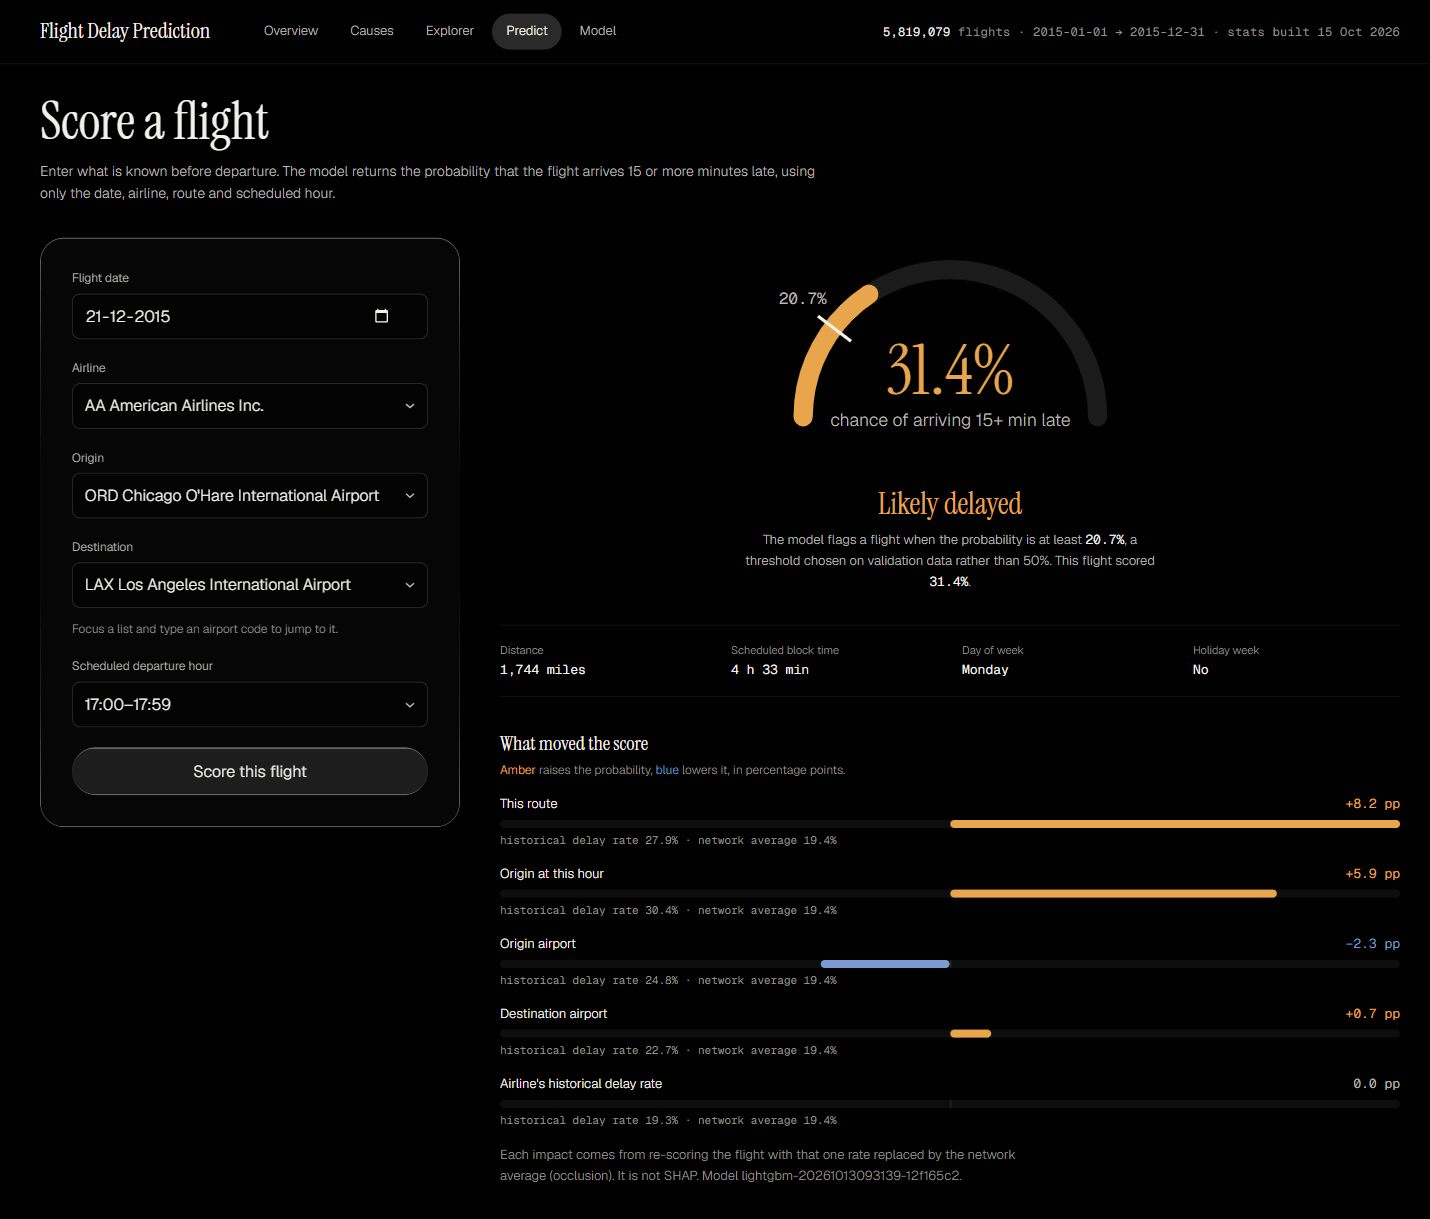
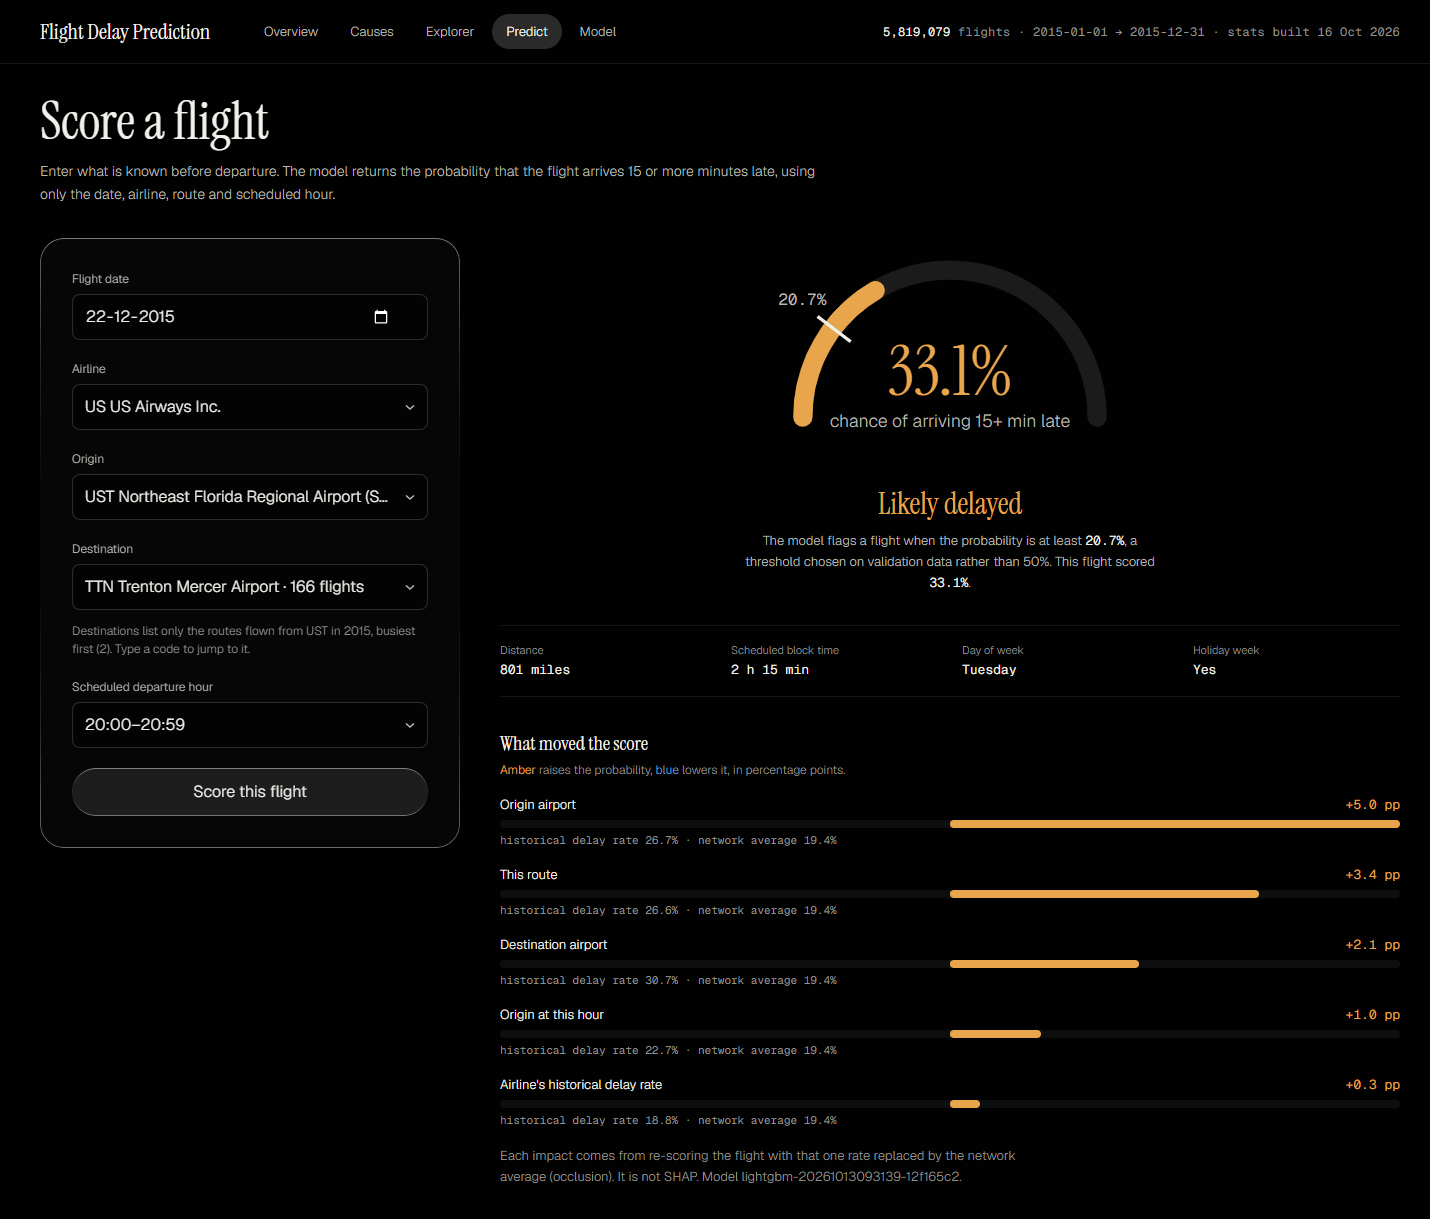
fix(predict): only offer destinations flown from the chosen origin
The Predict form paired any of 322 origins with any of 321 destinations,
but only 4,695 routes were flown in 2015 (about 15 per origin), so most
picks failed with 422 UNKNOWN_ROUTE (e.g. UST-SMX). Add GET /api/routes
?origin= (from stats_route, busiest first) and make the Destination
select list only those routes, falling back to the busiest one when the
origin changes, with loading, error and empty states.

diff --git a/web/src/pages/Predict.tsx b/web/src/pages/Predict.tsx
@@ -9,7 +9,7 @@ import {
 import { useMemo, useState, type FormEvent } from 'react';
 import { z } from 'zod';
 import { ApiError } from '../api/client';
-import { useMeta, usePredict } from '../api/hooks';
+import { useMeta, usePredict, useRoutes } from '../api/hooks';
 import { QueryState, Skeleton } from '../components/QueryState';
 import { FIELD_CLASS, Note, PageHeader, SelectField } from '../components/ui';
 import {
@@ -338,15 +338,30 @@ function PredictForm({
     () => [...meta.airports].sort((a, b) => a.code.localeCompare(b.code)),
     [meta.airports],
   );
+  const airportNames = useMemo(
+    () => new Map(meta.airports.map((airport) => [airport.code, airport.name])),
+    [meta.airports],
+  );
+
+  // Only routes flown in 2015 can be scored (/predict needs their distance and schedule), so the
+  // destination list comes from the origin's routes. A destination the new origin never flew to
+  // falls back to that origin's busiest route.
+  const routes = useRoutes(form.origin);
+  const destinations = routes.data?.destinations ?? [];
+  const dest = destinations.some((route) => route.dest === form.dest)
+    ? form.dest
+    : (destinations[0]?.dest ?? '');
+  const routesReady = routes.isSuccess && dest !== '';
 
   const set = (field: keyof FormState) => (value: string) =>
     setForm((current) => ({ ...current, [field]: value }));
 
   const handleSubmit = (event: FormEvent) => {
     event.preventDefault();
-    const { errors: found, ok } = validate(form);
+    const current = { ...form, dest };
+    const { errors: found, ok } = validate(current);
     setErrors(found);
-    if (ok) onSubmit(toBody(form));
+    if (ok && routesReady) onSubmit(toBody(current));
   };
 
   return (
@@ -401,20 +416,46 @@ function PredictForm({
         </SelectField>
         <SelectField
           label="Destination"
-          value={form.dest}
+          value={dest}
           onChange={(event) => set('dest')(event.target.value)}
           error={errors.dest}
+          disabled={!routesReady}
         >
-          {airports.map((airport) => (
-            <option key={airport.code} value={airport.code}>
-              {airport.code} {airport.name}
+          {routesReady ? (
+            destinations.map((route) => (
+              <option key={route.dest} value={route.dest}>
+                {route.dest} {airportNames.get(route.dest) ?? ''} · {formatInteger(route.flights)}{' '}
+                flights
+              </option>
+            ))
+          ) : (
+            <option value="">
+              {routes.isPending
+                ? 'Loading routes…'
+                : routes.isError
+                  ? 'Routes unavailable'
+                  : `No 2015 departures from ${form.origin}`}
             </option>
-          ))}
+          )}
         </SelectField>
       </div>
-      <p className="-mt-2 text-[12px] text-ink-3">
-        Focus a list and type an airport code to jump to it.
-      </p>
+      {routes.isError ? (
+        <p className="-mt-2 text-[12px] text-cancelled" role="alert">
+          Could not load the routes from {form.origin}: {routes.error.message}{' '}
+          <button
+            type="button"
+            onClick={() => void routes.refetch()}
+            className="text-ink underline underline-offset-2"
+          >
+            Retry
+          </button>
+        </p>
+      ) : (
+        <p className="-mt-2 text-[12px] text-ink-3">
+          Destinations list only the routes flown from {form.origin} in 2015, busiest first (
+          {routesReady ? formatInteger(destinations.length) : '…'}). Type a code to jump to it.
+        </p>
+      )}
 
       <SelectField
         label="Scheduled departure hour"
@@ -431,7 +472,7 @@ function PredictForm({
 
       <button
         type="submit"
-        disabled={pending}
+        disabled={pending || !routesReady}
         className="liquid-glass w-full rounded-full px-6 py-3 text-sm text-ink transition-colors disabled:opacity-60"
       >
         {pending ? 'Scoring…' : 'Score this flight'}

diff --git a/server/tests/analytics/analytics.integration.test.ts b/server/tests/analytics/analytics.integration.test.ts
@@ -10,6 +10,7 @@ import {
   DelayRateResponseSchema,
   FlightsResponseSchema,
   HeatmapResponseSchema,
+  RoutesResponseSchema,
   MetaResponseSchema,
   SummaryResponseSchema,
   TrendResponseSchema,
@@ -408,6 +409,26 @@ describe('analytics API (MongoDB integration)', () => {
     expect(byHour.get(17)?.lateAircraftShare).toBeCloseTo(40 / 60);
     expect(byHour.get(20)?.totalMinutes).toBe(0);
     expect(byHour.get(20)?.lateAircraftShare).toBeNull();
+  });
+
+  it('routes: the destinations flown from an origin, busiest first', async (context) => {
+    if (!client) return context.skip();
+    // ATL -> JFK: DL flights 5, 6, 7 (Feb) and 9 (Oct, cancelled) = 4 flights. JFK -> LAX: AA 1-4.
+    expect(RoutesResponseSchema.parse(await get('/api/routes?origin=ATL'))).toEqual({
+      origin: 'ATL',
+      destinations: [{ dest: 'JFK', flights: 4 }],
+    });
+    expect(RoutesResponseSchema.parse(await get('/api/routes?origin=JFK')).destinations).toEqual([
+      { dest: 'LAX', flights: 4 },
+    ]);
+    // A valid code with no departures is an empty list, not an error.
+    expect(RoutesResponseSchema.parse(await get('/api/routes?origin=LAX')).destinations).toEqual(
+      [],
+    );
+    expect(
+      ((await get('/api/routes?origin=ab', 400)) as { error: { code: string } }).error.code,
+    ).toBe('VALIDATION_ERROR');
+    await get('/api/routes', 400);
   });
 
   it('heatmap: delay rate per (day of week, departure hour) cell', async (context) => {

diff --git a/shared/src/analytics.ts b/shared/src/analytics.ts
@@ -34,6 +34,12 @@ export const CancellationsQuerySchema = z.object({
 });
 export type CancellationsQuery = z.infer<typeof CancellationsQuerySchema>;
 
+/** GET /routes: the destinations flown from one origin (feeds the Predict form). */
+export const RoutesQuerySchema = z.object({
+  origin: z.string().regex(AIRPORT_CODE, 'origin must be a 3-character IATA code'),
+});
+export type RoutesQuery = z.infer<typeof RoutesQuerySchema>;
+
 // ---------- Response schemas ----------
 
 const rate = z.number().nullable();
@@ -218,6 +224,16 @@ export const HeatmapResponseSchema = z.object({
   cells: z.array(HeatmapCellSchema),
 });
 export type HeatmapResponse = z.infer<typeof HeatmapResponseSchema>;
+
+/**
+ * Destinations with at least one 2015 flight from `origin`, busiest first. Only these routes have
+ * the distance and scheduled time /predict needs (any other pair answers 422 UNKNOWN_ROUTE).
+ */
+export const RoutesResponseSchema = z.object({
+  origin: z.string(),
+  destinations: z.array(z.object({ dest: z.string(), flights: z.number() })),
+});
+export type RoutesResponse = z.infer<typeof RoutesResponseSchema>;
 
 export const MetaResponseSchema = z.object({
   flights: z.number(),

diff --git a/server/src/routes/api.ts b/server/src/routes/api.ts
@@ -5,6 +5,7 @@ import {
   CausesQuerySchema,
   DelayRateQuerySchema,
   FlightsQuerySchema,
+  RoutesQuerySchema,
   TrendQuerySchema,
   type DataQuality,
 } from '@flight-delay/shared';
@@ -13,6 +14,7 @@ import { loadDataQuality, loadLabels, type Labels } from '../analytics/common.js
 import { getDelayRate } from '../analytics/delay-rate.js';
 import { getFlights } from '../analytics/flights.js';
 import { getHeatmap } from '../analytics/heatmap.js';
+import { getRoutes } from '../analytics/routes.js';
 import { getMeta } from '../analytics/meta.js';
 import {
   getCancellations,
@@ -99,6 +101,11 @@ export function apiRouter({ getDb, cacheTtlMs }: ApiRouterOptions): Router {
 
   router.get('/analytics/delay-distribution', async (_request, response) => {
     response.json(await cached('delay-distribution', () => getDelayDistribution(getDb())));
+  });
+
+  router.get('/routes', async (request, response) => {
+    const query = parseQuery(RoutesQuerySchema, request.query);
+    response.json(await cached(`routes:${query.origin}`, () => getRoutes(getDb(), query)));
   });
 
   // Raw flight browsing is index-backed and paginated, so it is not cached.

diff --git a/server/tests/analytics/builders.test.ts b/server/tests/analytics/builders.test.ts
@@ -5,6 +5,7 @@ import { delayRatePipeline } from '../../src/analytics/delay-rate.js';
 import { causesPipeline } from '../../src/analytics/causes.js';
 import { trendPipeline, trendSource } from '../../src/analytics/series.js';
 import { heatmapPipeline } from '../../src/analytics/heatmap.js';
+import { routesPipeline } from '../../src/analytics/routes.js';
 import { STATS_BUILDS } from '../../src/stats/builders.js';
 
 const stageNames = (pipeline: object[]): string[] =>
@@ -54,6 +55,14 @@ describe('stats build pipelines', () => {
 });
 
 describe('read pipelines', () => {
+  it('reads one origin routes, busiest first, with a stable tiebreak', () => {
+    expect(routesPipeline({ origin: 'ORD' })).toEqual([
+      { $match: { origin: 'ORD' } },
+      { $sort: { flights: -1, dest: 1 } },
+      { $project: { _id: 0, dest: 1, flights: 1 } },
+    ]);
+  });
+
   it('reads heatmap cells in day-of-week, hour order without _id', () => {
     expect(heatmapPipeline()).toEqual([
       { $sort: { dow: 1, hour: 1 } },

diff --git a/server/src/analytics/routes.ts b/server/src/analytics/routes.ts
@@ -1,0 +1,24 @@
+import type { Db, Document } from 'mongodb';
+import { z } from 'zod';
+import { RoutesResponseSchema, type RoutesQuery, type RoutesResponse } from '@flight-delay/shared';
+
+// ---------- Destinations flown from an origin (Predict form) ----------
+
+/** stats_route holds one document per IATA route; /predict derives its route inputs from it. */
+export const ROUTES_SOURCE = 'stats_route';
+
+export function routesPipeline(query: RoutesQuery): Document[] {
+  return [
+    { $match: { origin: query.origin } },
+    { $sort: { flights: -1, dest: 1 } },
+    { $project: { _id: 0, dest: 1, flights: 1 } },
+  ];
+}
+
+export async function getRoutes(db: Db, query: RoutesQuery): Promise<RoutesResponse> {
+  const docs = await db.collection(ROUTES_SOURCE).aggregate(routesPipeline(query)).toArray();
+  return RoutesResponseSchema.parse({
+    origin: query.origin,
+    destinations: z.array(z.unknown()).parse(docs),
+  });
+}

diff --git a/server/src/db/api-timing.ts b/server/src/db/api-timing.ts
@@ -22,6 +22,7 @@ import {
   TrendQuerySchema,
 } from '@flight-delay/shared';
 import { HEATMAP_SOURCE, heatmapPipeline } from '../analytics/heatmap.js';
+import { ROUTES_SOURCE, routesPipeline } from '../analytics/routes.js';
 
 export const API_LIMIT_MS = 1_000;
 
@@ -132,6 +133,11 @@ function checks(page2Cursor: string | null): ApiCheck[] {
       explain: aggregate(CANCELLATIONS_SOURCE, cancellationsPipeline({ by: 'airline' })),
     },
     { path: '/api/analytics/delay-distribution', source: 'stats_delay_buckets' },
+    {
+      path: '/api/routes?origin=ORD',
+      source: ROUTES_SOURCE,
+      explain: aggregate(ROUTES_SOURCE, routesPipeline({ origin: 'ORD' })),
+    },
     {
       path: '/api/analytics/heatmap',
       source: HEATMAP_SOURCE,

diff --git a/web/src/api/hooks.ts b/web/src/api/hooks.ts
@@ -10,6 +10,7 @@ import {
   MetaResponseSchema,
   ModelMetricsResponseSchema,
   PredictResponseSchema,
+  RoutesResponseSchema,
   SummaryResponseSchema,
   TrendResponseSchema,
   type CancellationsQuery,
@@ -106,6 +107,15 @@ export function useDelayDistribution() {
         undefined,
         signal,
       ),
+  });
+}
+
+/** Destinations flown from `origin` in 2015, busiest first (only these can be scored). */
+export function useRoutes(origin: string) {
+  return useQuery({
+    queryKey: ['routes', origin],
+    enabled: origin !== '',
+    queryFn: ({ signal }) => apiGet('/api/routes', RoutesResponseSchema, { origin }, signal),
   });
 }
 

diff --git a/docs/DECISIONS.md b/docs/DECISIONS.md
@@ -570,3 +570,26 @@ The §12 `simulate:stream` is also not built.
 - **Not run:**
   - The `security-review` skill: it diffs against `origin/HEAD`, which is not set in this clone. The `vibe-security` audit above covered the same scope.
   - A test with `MongoServerSelectionError`: its constructor needs a topology description, so the test uses `MongoNetworkError`. Both classes go through the same branch.
+
+## Post-Phase 7 fix: Predict offered routes that cannot be scored (2026-10-16)
+
+**Problem (user report).** Many flights scored on the Predict page failed with "No 2015 flights on UST-SMX; distance and schedule are unknown" (422 `UNKNOWN_ROUTE`).
+- **Cause.** The form let any of the 322 origins be paired with any of 321 destinations. Only 4,695 routes were flown in 2015, and `/predict` needs a flown route for its distance and scheduled-time inputs (Phase 5). An origin averages 14.6 destinations (min 1, max 169), so roughly 95% of the pairs the form allowed could never be scored. UST, for example, only flew to TTN and IAD.
+- **The API was behaving as designed;** the form was offering invalid input.
+
+**Fix.**
+- **New endpoint** `GET /api/routes?origin=XXX`, which returns `{ origin, destinations: [{ dest, flights }] }` busiest first from `stats_route`.
+  - It reads a stats collection (4,695 docs): 13-17 ms cold over HTTP.
+  - It is validated with zod (bad code → 400), and an origin with no departures gives an empty list.
+  - It is added to the `explain:report` endpoint list.
+- **Predict form.** The Destination select now lists only those destinations, with flight counts. A destination the new origin never flew to falls back to its busiest route. That value is derived, not synced in an effect.
+- **Form states.** It shows a loading state, an error state with Retry, and an empty state. Submit is disabled until the routes have loaded.
+- **Not filtered:** the airline is still any of the 14. `stats_route` has no airline key, and the model scores airline and route independently.
+
+**Verified.**
+- A builder test, plus an integration test covering two origins, an origin with no departures, an invalid code and a missing code.
+- In the browser (Playwright, live API, desktop and mobile), the user's case scores:
+  - US, UST, 2015-12-22, 20:00 offers only TTN (166 flights) and IAD (3);
+  - UST→TTN scores 33.1%, "Likely delayed";
+  - ORD keeps LAX as its default among its 162 destinations.
+- `docs/screenshots/predict-*.png` were recaptured.

diff --git a/README.md b/README.md
@@ -107,6 +107,7 @@ Everything is under `/api`.
 | GET | `/analytics/cancellations` | `by=overall\|airline\|month` |
 | GET | `/analytics/delay-distribution` | Arrival-delay histogram (`$bucket`) |
 | GET | `/analytics/heatmap` | Delay rate per (day of week, scheduled hour) cell |
+| GET | `/routes` | `origin` (required): destinations flown from it in 2015 with flight counts, busiest first. The Predict form uses it, because only these routes can be scored |
 | GET | `/flights` | Requires one of `airline`, `origin`, `route`, or `from` + `to` (YYYY-MM-DD); `dest` only with `origin` or `route`; `limit` ≤ 100; `cursor` = the previous page's `nextCursor` |
 | POST | `/predict` | Body `{ date, airline, origin, dest, schedDepHour }` → `{ probability, label, threshold, modelVersion, derived, topFactors }` |
 | GET | `/model/metrics` | The `model_runs` document of the deployed model |

diff --git a/PROJECT_OVERVIEW.md b/PROJECT_OVERVIEW.md
@@ -249,6 +249,7 @@ All query/params validated with zod; errors in the shape `{ error: { code, messa
 | GET | `/analytics/trend?airline=&origin=&granularity=day\|month` | Time series from `stats_daily` |
 | GET | `/analytics/cascade` | Late-aircraft share by hour |
 | GET | `/analytics/heatmap` | Delay rate per (day of week × scheduled hour) cell, from `stats_dow_hour` (added in Phase 6 for the Explorer heatmap) |
+| GET | `/routes?origin=` | Destinations flown from an origin in 2015, from `stats_route` (added after Phase 7 so the Predict form only offers scorable routes) |
 | GET | `/flights?airline=&origin=&dest=&from=&to=&limit=&cursor=` | Browse raw flights (index-backed) |
 | POST | `/predict` | Body: `{date, airline, origin, dest, schedDepHour}` -> `{probability, label, threshold, topFactors[]}` |
 | GET | `/model/metrics` | Latest `model_runs` document |
